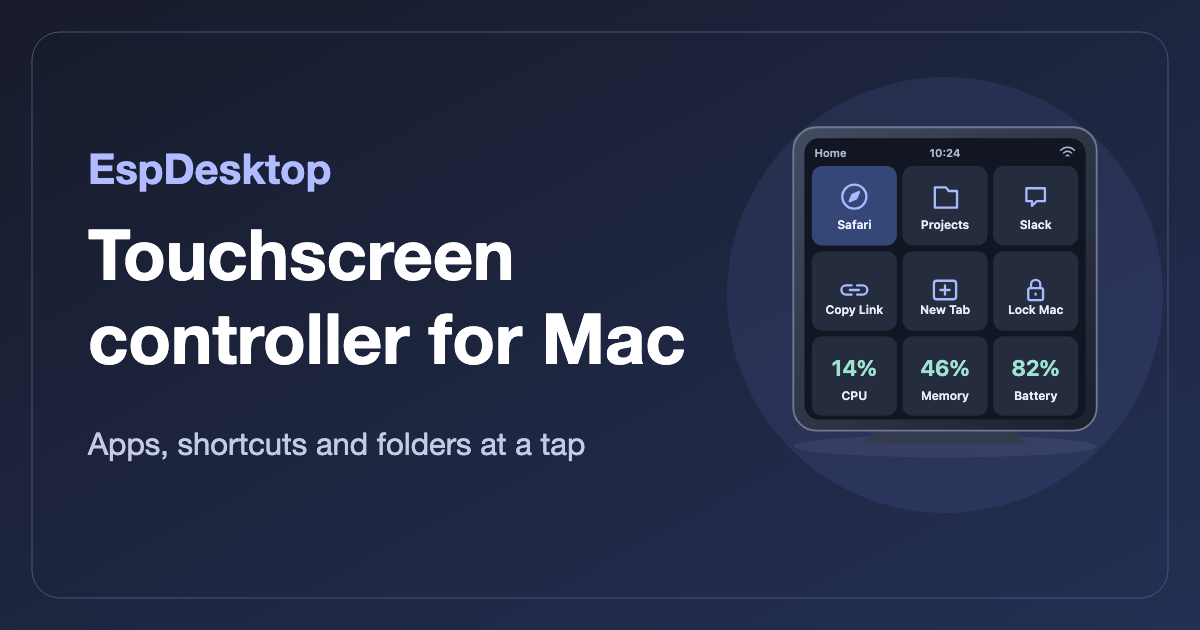
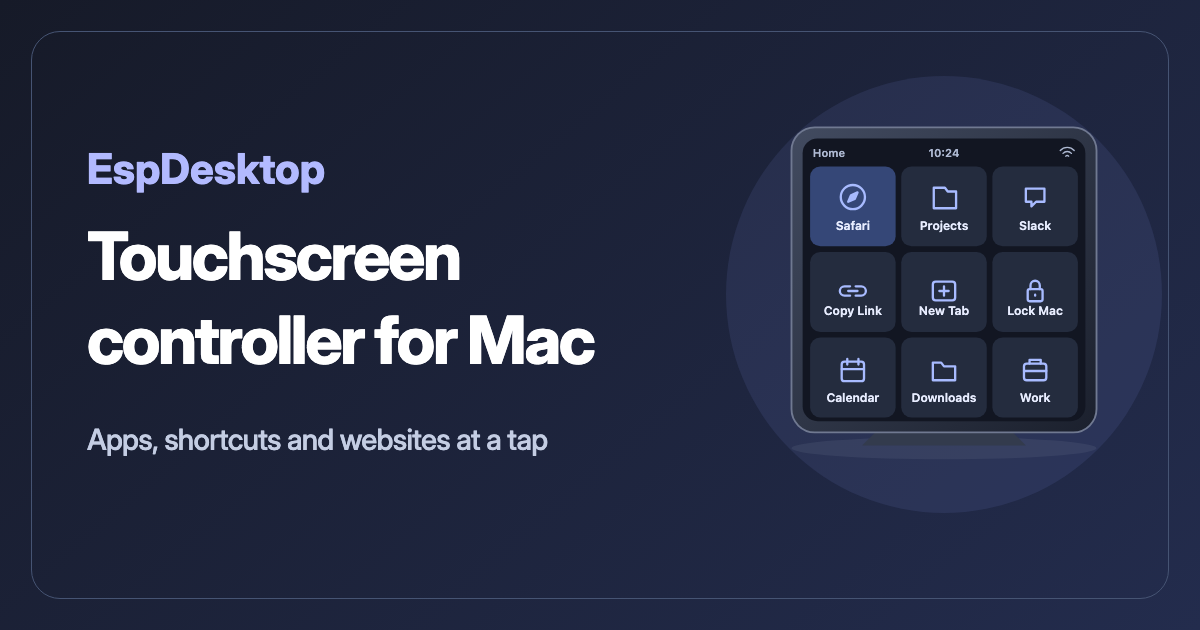
Give websites a homepage card and remove public Mac statistics

diff --git a/docs/.vitepress/discovery.ts b/docs/.vitepress/discovery.ts
@@ -24,7 +24,7 @@ export const redirects: Record<string, string> = {
   'card-types/index': espcontrol,
   'getting-started/home-assistant-actions': espcontrol,
   'features/media-cover-art': `${hostname}features/setup#screen-and-system-settings`,
-  'mac-controls/statistics': `${hostname}features/subpages#mac-statistics`,
+  'mac-controls/statistics': macControls,
   'mac-controls/volume': macControls,
   'guides/index': espcontrol,
   'immich/index': espcontrol,

diff --git a/scripts/check_docs_site.py b/scripts/check_docs_site.py
@@ -328,7 +328,7 @@ def check_build(dist):
         'card-types/index': 'https://jtenniswood.github.io/espcontrol/',
         'getting-started/home-assistant-actions': 'https://jtenniswood.github.io/espcontrol/',
         'features/media-cover-art': BASE + 'features/setup#screen-and-system-settings',
-        'mac-controls/statistics': BASE + 'features/subpages#mac-statistics',
+        'mac-controls/statistics': BASE + '#what-you-can-control',
         'mac-controls/volume': BASE + '#what-you-can-control',
         'guides/index': 'https://jtenniswood.github.io/espcontrol/',
         'immich/index': 'https://jtenniswood.github.io/espcontrol/',

diff --git a/README.md b/README.md
@@ -2,7 +2,7 @@
 
 **Turn a small touchscreen into a dedicated controller for your Mac.**
 
-EspDesktop pairs an affordable ESP32 touchscreen with a native macOS menu-bar app through the **Mac Companion** connector. Use the display to launch apps, open folders and websites, run keyboard shortcuts, and view Mac statistics.
+EspDesktop pairs an affordable ESP32 touchscreen with a native macOS menu-bar app through the **Mac Companion** connector. Use the display to launch apps, open folders and websites, run keyboard shortcuts, and lock your Mac.
 
 Set up the display from a normal web browser.
 
@@ -13,8 +13,8 @@ Set up the display from a normal web browser.
 - **Applications** — launch only the Mac apps you approve in EspDesktop.
 - **App shortcuts** — open an app-specific page of controls for common actions, or create your own keyboard shortcuts.
 - **Mac Lock** — lock your Mac with a tap on the display.
-- **Folders and websites** — open approved Finder folders or safe `http://` and `https://` links in an approved app.
-- **Mac statistics** — optionally show processor, memory, storage, network throughput, and battery readings.
+- **Finder folders** — open an approved folder with a tap.
+- **Websites** — open `http://` and `https://` links in your default browser.
 
 You can organise controls into subpages, resize and rearrange cards, change icons and colours, and back up the finished layout from the display's built-in setup page.
 

diff --git a/docs/features/subpages.md b/docs/features/subpages.md
@@ -1,6 +1,6 @@
 ---
 title: Create Subpages for Mac Controls
-description: Group apps and keyboard shortcuts on your EspDesktop touchscreen, create nested pages, or show Mac stats on a subpage tile.
+description: Group apps and keyboard shortcuts on your EspDesktop touchscreen, create nested subpages, and organise cards between pages.
 ---
 
 # Create Subpages for Mac Controls {#subpages}
@@ -8,10 +8,6 @@ description: Group apps and keyboard shortcuts on your EspDesktop touchscreen, c
 Use a **Subpage** card to open a folder of related controls. Each subpage reserves one tile for **Back**, which takes you to its parent page. App subpages use the app’s large icon as their Back tile. Other subpages use an arrow and label.
 
 All subpages hide the top title and clock bar so the cards use the full screen. Clock Bar settings apply to the home screen only.
-
-## Mac statistics
-
-Choose **Companion Stat** to show a Mac statistic on the folder tile while keeping the tap action as navigation. Select the statistic and, where available, used/free display or a storage device. A paired Mac provides the readings.
 
 ## App page behavior
 
